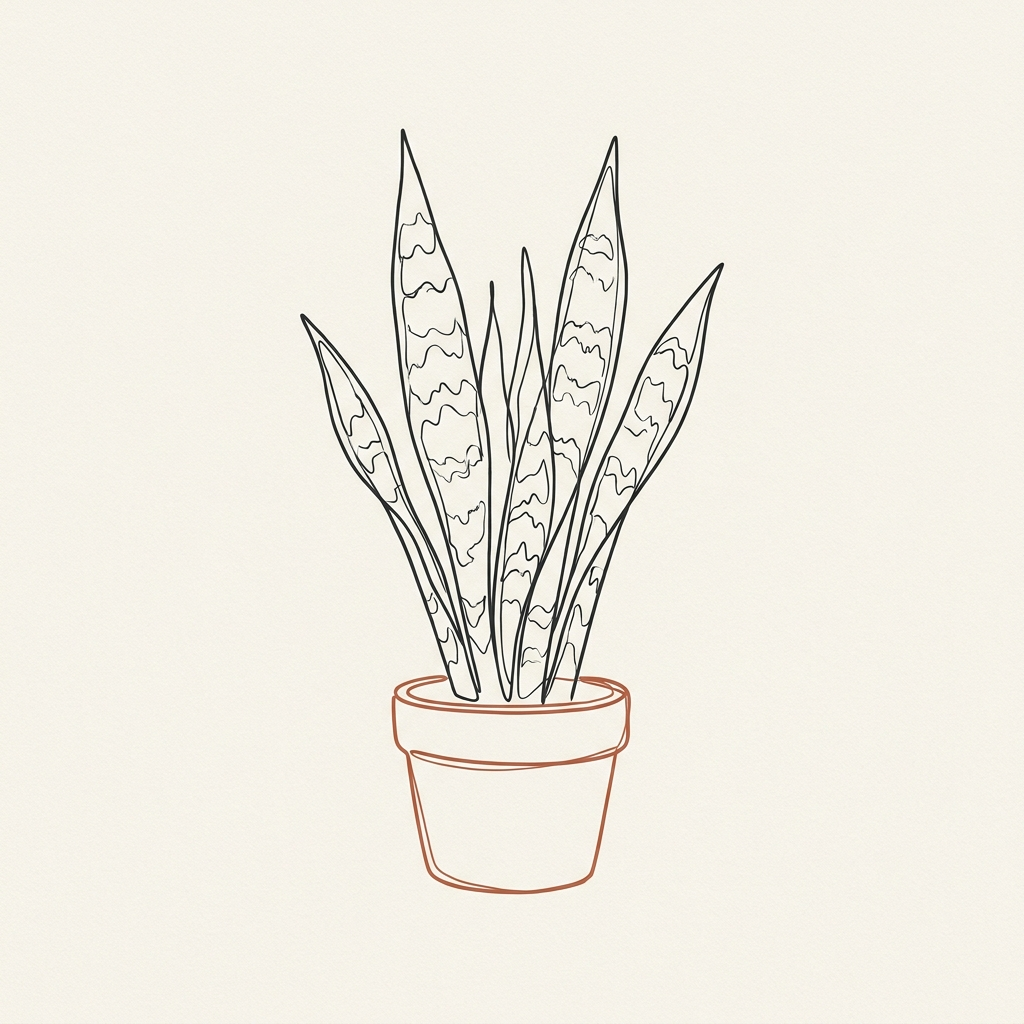
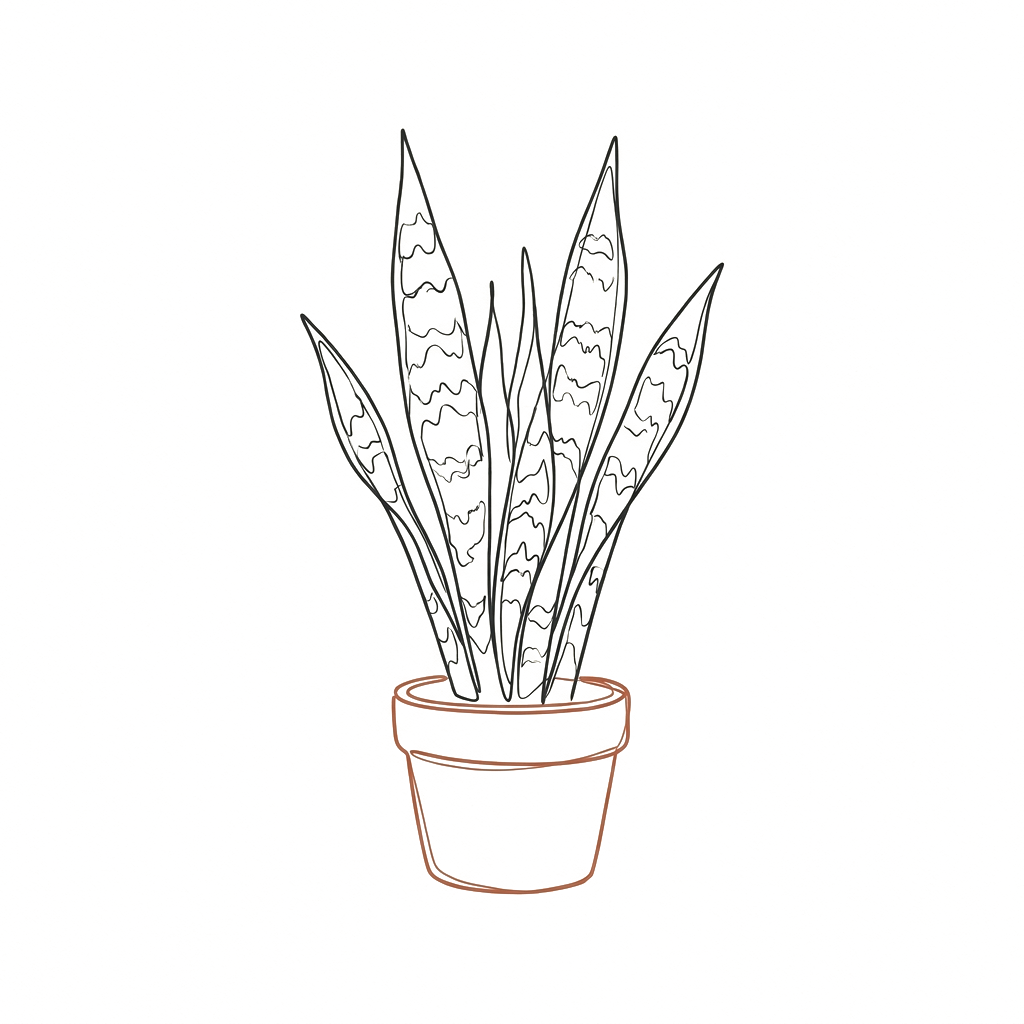
fix(plants): chroma-key illustrations to transparent + dark-mode invert
The Gemini-generated PNGs had an opaque cream background that didn't
exactly match the kiosk bg color, leaving each card with a visible boxed
square around the art. Alpha-key the cream to transparent so the line art
floats on the card surface. Add a CSS filter that inverts the art when
the card sits on a dark face (listening/ack) or under html[data-theme=dark],
turning the charcoal lines white.

diff --git a/kiosk/index.html b/kiosk/index.html
@@ -511,6 +511,10 @@
     background-size: contain; background-repeat: no-repeat; background-position: center;
     margin-bottom: clamp(8px,1.2vh,14px);
   }
+  /* Invert the dark line art to white when the card sits on a dark background. */
+  html[data-theme="dark"] #plants .p-art,
+  body.face-listening #plants .p-art,
+  body.face-ack       #plants .p-art { filter: invert(1) hue-rotate(180deg); }
   #plants .p-divider { height: 1px; background: var(--ink); margin-bottom: clamp(10px,1.4vh,16px); }
   #plants .p-head {
     display: flex; justify-content: space-between; align-items: flex-start; gap: 12px;
